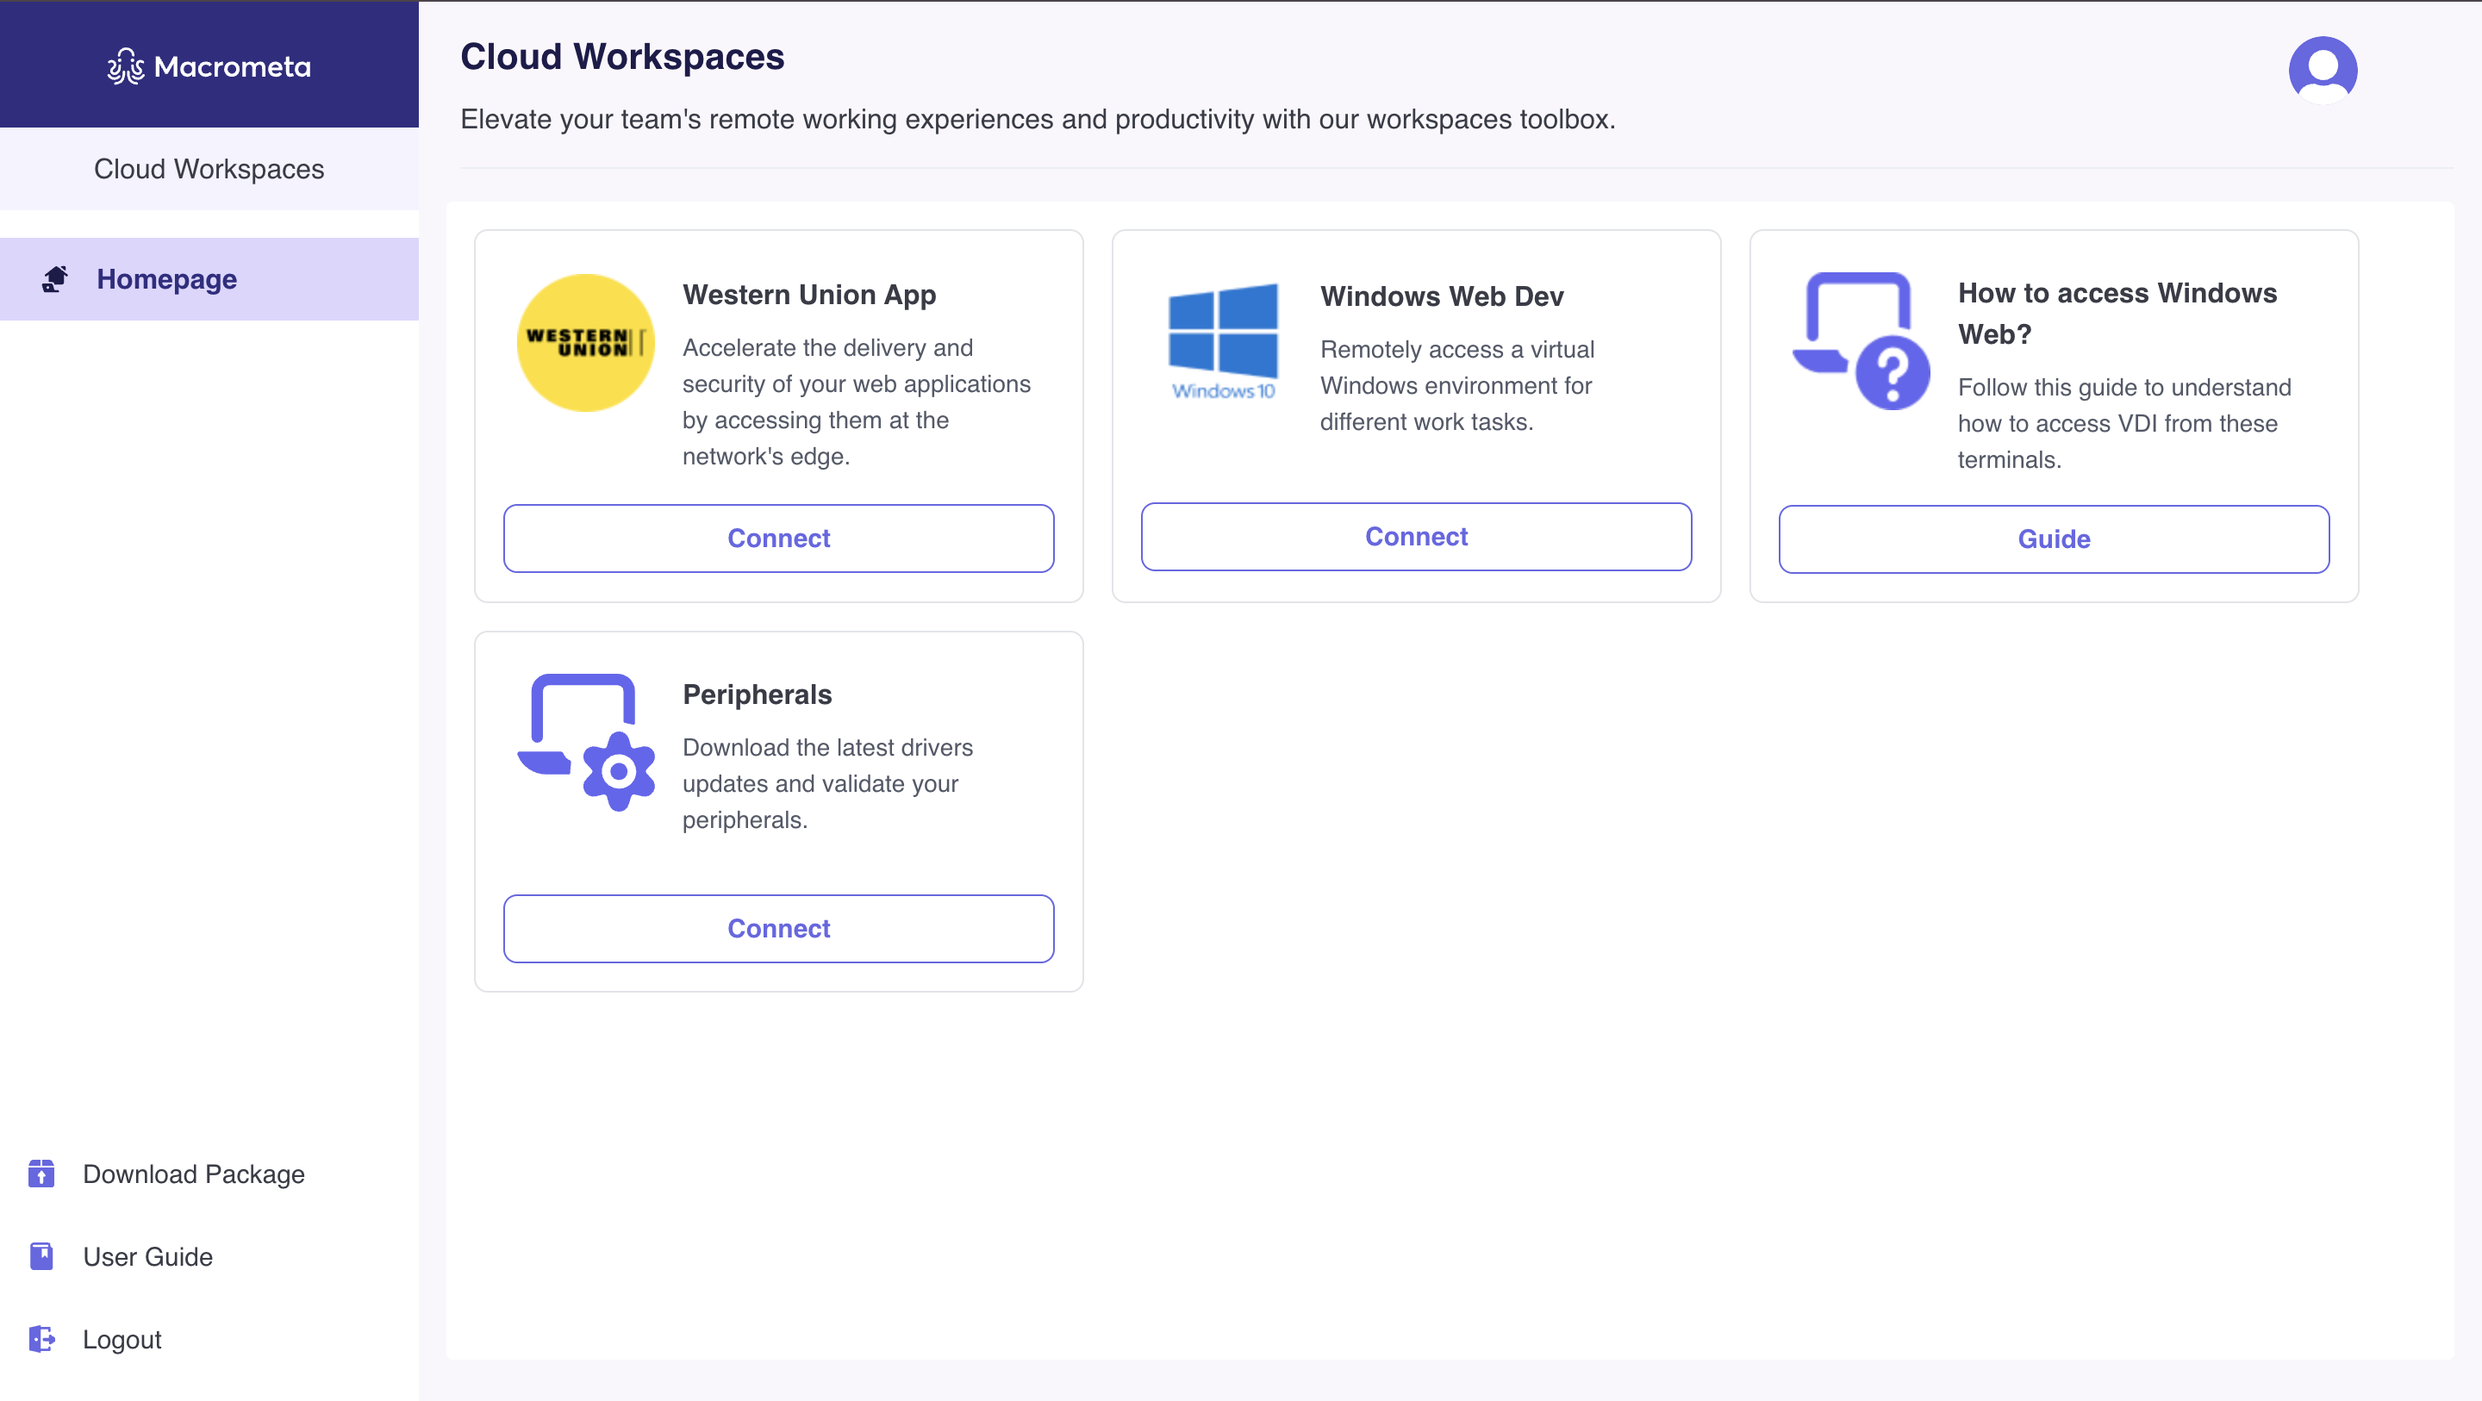
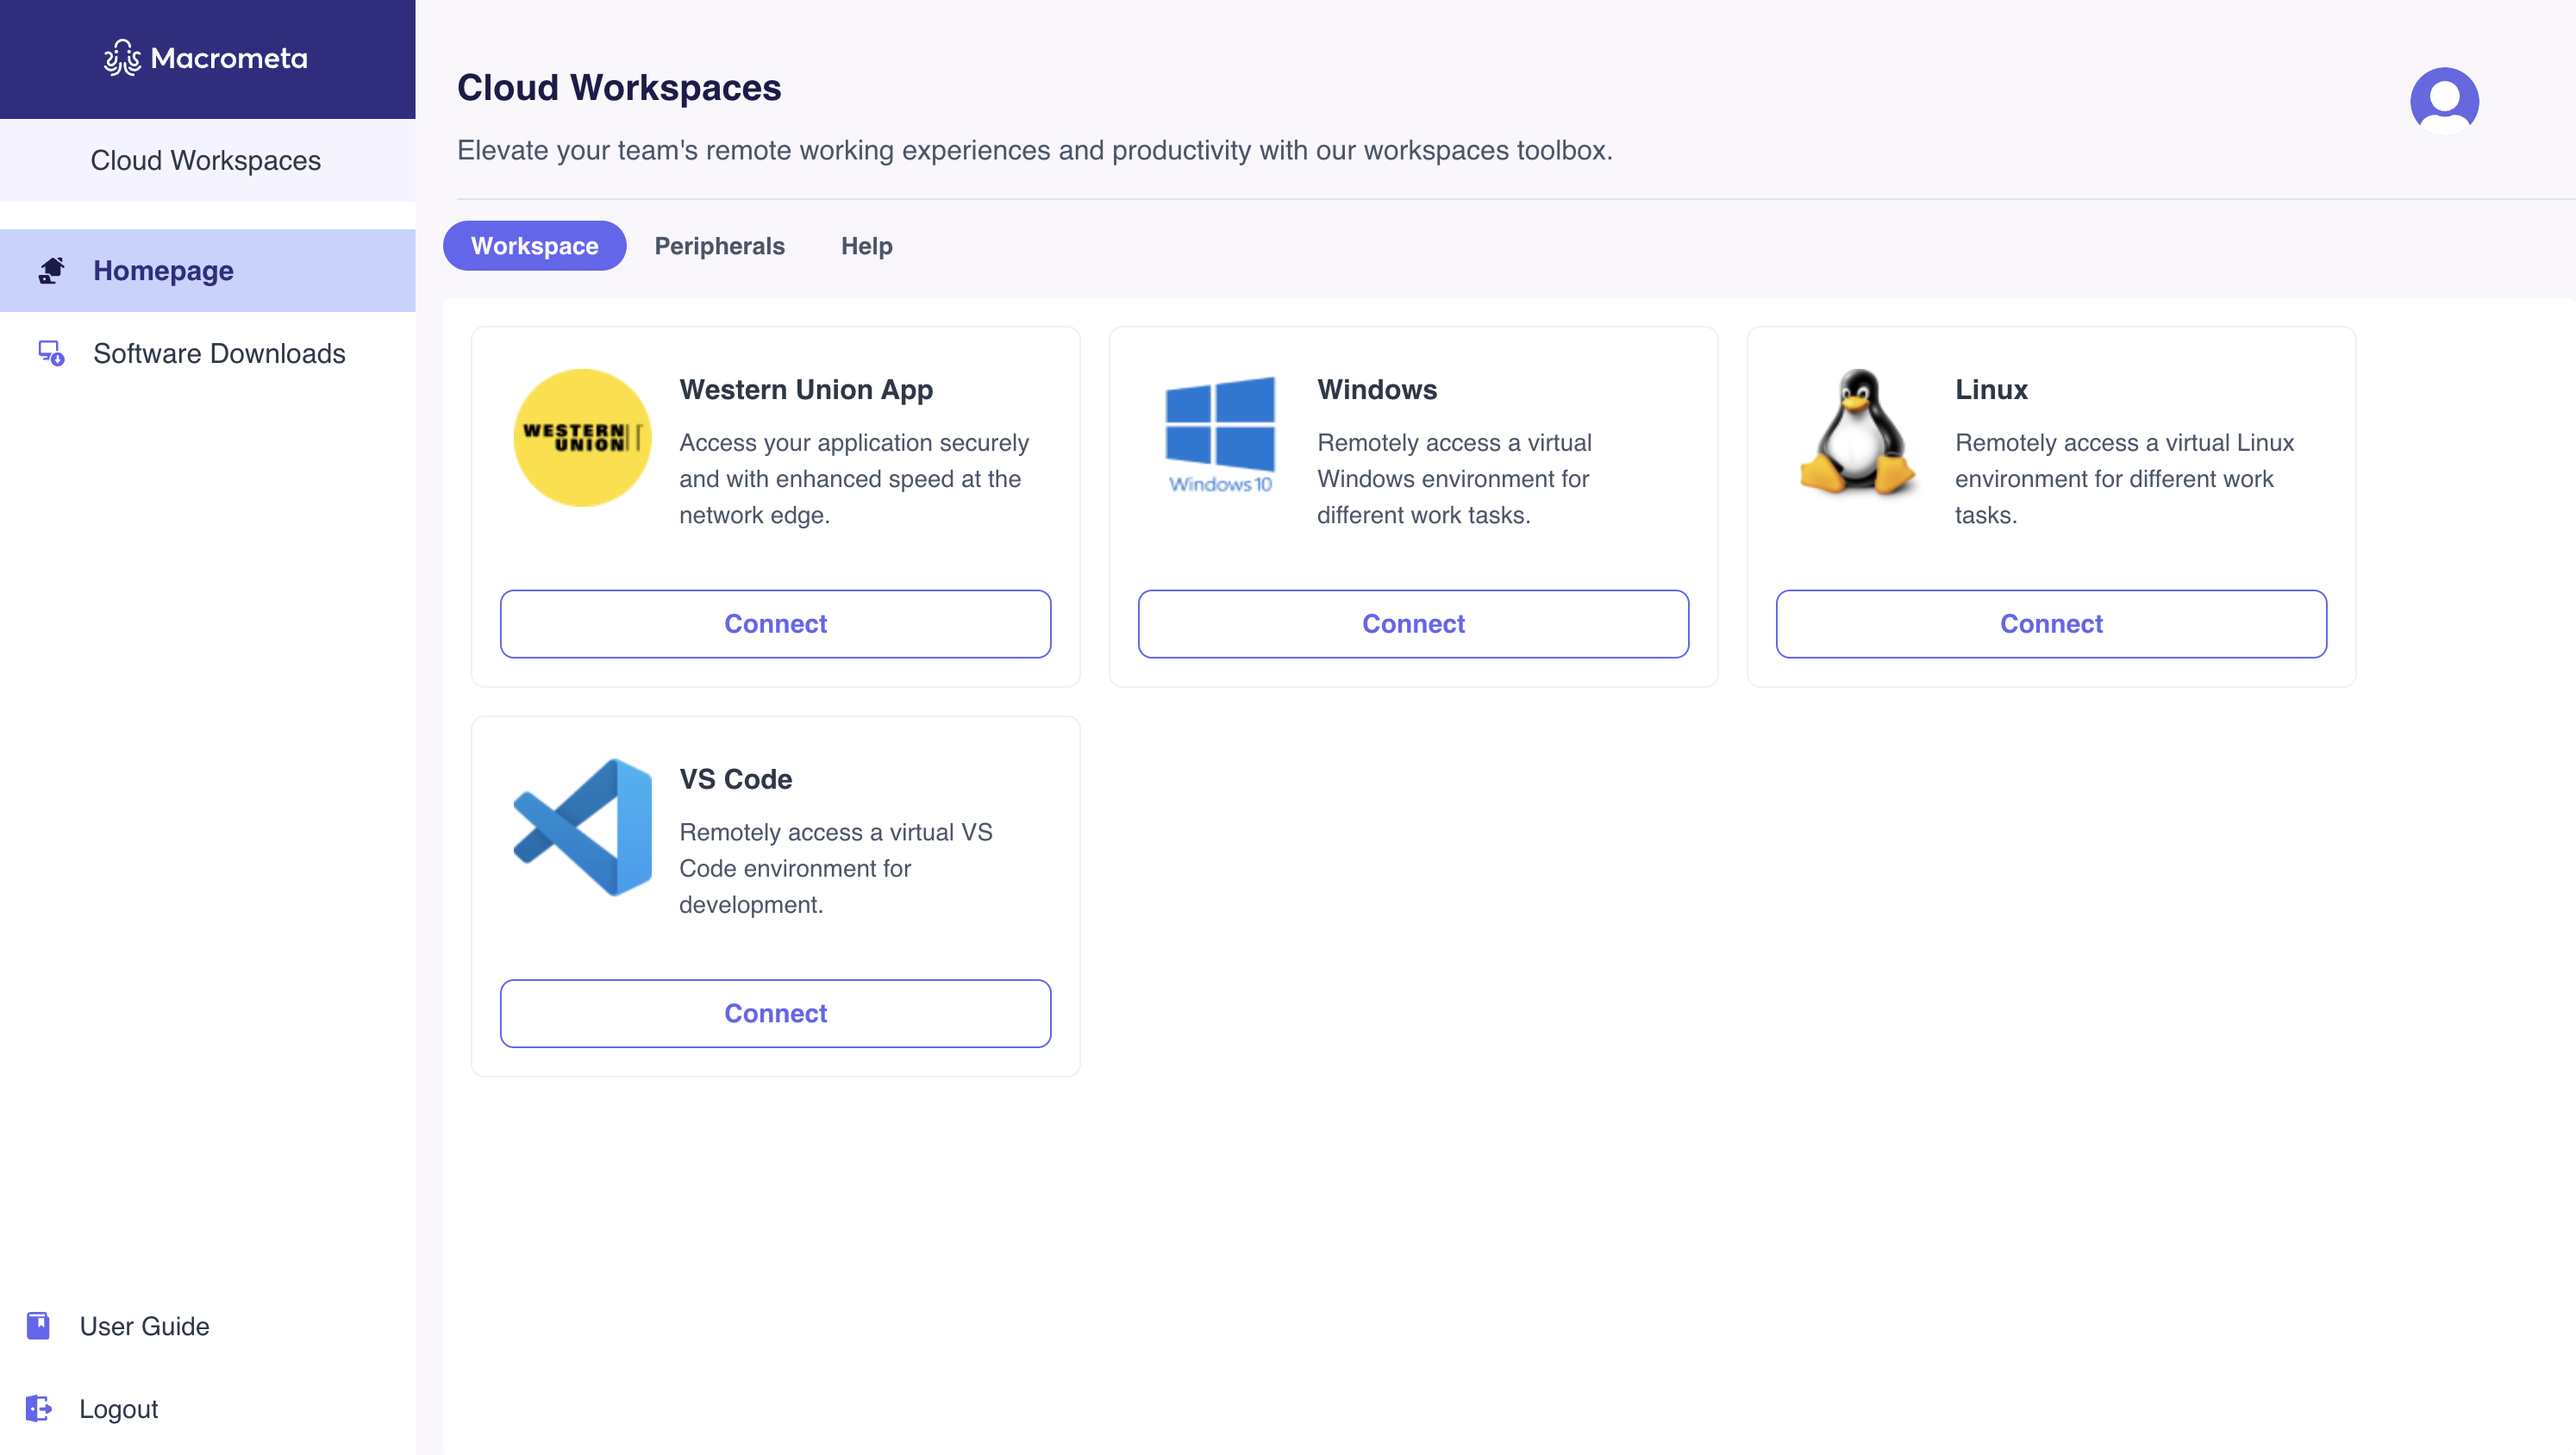
ui-changes

diff --git a/docs/wu-runbook/index.md b/docs/wu-runbook/index.md
@@ -31,36 +31,21 @@ Ignore steps 1 and 2 if you are already logged into Cloud Workspaces.
 2. Login with appropriate credentials to your workspace.
 3. After logging in,
    
-     - For first-time users, the onboarding screen is displayed so you can download the appropriate installer for the service you want to use. Refer to the respective guides for detailed instructions on how to set up the [VDI](./vdi/index.md#download-the-vdi-installer) and [RBA](./rba/index.md#download-the-rba-installer) installers. Click **Go to Home** to proceed to the Workspaces homepage.
+     - For first-time users, the onboarding screen is displayed for you to download the appropriate installer for the service you want to use. Refer to the respective guides for detailed instructions on how to set up the [VDI](./vdi/index.md#download-the-vdi-installer) and [RBA](./rba/index.md#download-the-rba-installer) installers. Click **Go to Home** to proceed to the Workspaces homepage.
    
         ![onboarding-page](/img/runbook-images/onboarding.png)
 
-     - If you're a returning user, you are automatically redirected to the homepage. This homepage is for users subscribed to RBA and VDI.
+     - If you're a returning user, you are automatically redirected to the homepage. The services displayed in your homepage is based on your [user subscription](#workspace-subscriptions). The homepage below is for users subscribed to RBA and VDI.
 
         ![vdi-rba-user](/img/runbook-images/rba-vdi.png)
 
 :::note
-If you missed the installers, click the **Download Package** menu from the sidebar to return to the onboarding screen.
+If you missed the installers, click the **Software Downloads** menu from the sidebar to return to the installer screen.
 :::
 
 The sidebar also provides access to the **User Guide** and **Logout** options. To view your profile, click the **user icon** in the top-right corner of the screen. 
 
-**Next steps:**
-- For WUPOS users, continue with the steps highlighted in [ Using RBA to access the Western Union App](./rba/index.md).
-- VDI users can continue with the [setup process](./vdi/index.md) to start using remote desktops.
-
-## Workspace Management
-
-Cloud Workspaces offers its management dashboard for admin users to configure and edit their domain.
-
-![admin-dashboard](/img/workspaces/management-dashboard.png)
-
-:::note
-Regular users won't find the management dashboard as it is only available for admin users.
-:::
-
-
-## **Workspace Subscriptions**
+## **Workspaces Subscriptions**
 
 Cloud Workspaces has different tools in its toolbox and are available based on subscriptions. Depending on subscriptions, there are three classes of Cloud Workspace users:
 
@@ -75,3 +60,9 @@ Cloud Workspaces has different tools in its toolbox and are available based on s
 - **VDI and RBA users**: These users have access to all the tools in the Workspaces toolbox
 
 ![vdi-rba-user](/img/runbook-images/rba-vdi.png)
+
+**Next steps:**
+- For admins, visit the [Workspace Management guide](workspace-manangement.md) to configure your domain and manage your subscriptions.
+- For WUPOS users, continue with the steps highlighted in [ Using RBA to access the Western Union App](./rba/index.md).
+- VDI users can continue with the [setup process](./vdi/index.md) to start using remote desktops.
+

diff --git a/docs/wu-runbook/vdi/index.md b/docs/wu-runbook/vdi/index.md
@@ -17,7 +17,7 @@ These remote desktops support the following key peripherals:
 
 Before accessing remote desktops using VDI, you're required to do the following:
  
-1. Click **Download VDI Installer** from the [onboarding screen](../index.md#connecting-to-workspaces) to download the installer. Alternatively,  navigate to **Download Package** menu from the homepage sidebar and click **Download VDI Installer**. 
+1. Click **Download VDI Installer** from the [onboarding screen](../index.md#connecting-to-workspaces) to download the installer. Alternatively,  navigate to **Software Downloads** from the homepage sidebar and click **Download VDI Installer**. 
   
 2. Run the file and follow the on-screen prompts to install the VDI components.
 3. Once installed, return to Cloud Workspaces and click **Go to Home** to access the homepage.
@@ -38,18 +38,22 @@ Cloud Workspaces offers you access to two different types of Windows VDI:
 The Windows VDI is exclusively available on Windows OS/terminals in this release.
 :::
 
-To start using the remote Windows desktop, 
+To **start using the remote Windows desktop**, 
 
-1. Navigate to the **Workspaces** homepage and click the **Connect** button for **Windows Web Dev**. A pop-up modal appears with some authentication instructions for use later in Step 4. 
+1. Navigate to the **Workspaces** homepage and click the **Connect** button for **Windows Web Dev**. 
+
+   ![vdi-user](/img/runbook-images/vdi.png)
+
+2. A pop-up modal appears with some authentication instructions for use later in Step 5. 
 
     ![vdi-login](/img/runbook-images/vdi-login.png)
 
-2. Click **OK**. Select **Open Windows PowerShell**  if you are prompted to access it.
-3. It launches a **Remote Desktop Connection** window for you to connect to your remote computer. Click **Connect** to initiate the connection to the remote desktop.
+3. Click **OK**. Select **Open Windows PowerShell**  if you are prompted to access it.
+4. It launches a **Remote Desktop Connection** window for you to connect to your remote computer. Click **Connect** to initiate the connection to the remote desktop.
 
     ![rdp-powershell](/img/runbook-images/vdi-rdp.png)
 
-4. Enter your Workspaces password in the credentials window.
+5. Enter your Workspaces password in the credentials window.
 
     ![rdp-powershell](/img/runbook-images/windows-credentials.png)
 

diff --git a/docs/wu-runbook/rba/index.md b/docs/wu-runbook/rba/index.md
@@ -1,5 +1,5 @@
 ---
-sidebar_position: 1
+sidebar_position: 2
 title:  Using RBA to access the Western Union App
 ---
 
@@ -7,7 +7,7 @@ WUPOS Agents can access the Western Union app using Remote Browser Acceleration 
 
 ### **Prerequisites**
 
-- **RBA Installer Token**: The RBA Installer Token is required when [setting up the installer](#download-the-rba-installer). To access this token, return to the [onboarding screen](../index.md#connecting-to-workspaces) or navigate to **Download Package** menu from the homepage sidebar. Click on **RBA Installer Token** and copy the displayed token. 
+- **RBA Installer Token**: The RBA Installer Token is required when [setting up the installer](#download-the-rba-installer). To access this token, return to the [onboarding screen](../index.md#connecting-to-workspaces) or navigate to **Software Downloads** from the homepage sidebar. Click on **RBA Installer Token** and copy the displayed token. 
 
 ### **Download the RBA Installer**
 
@@ -17,7 +17,7 @@ To use the Western Union App with RBA, the following installation steps is requi
 The RBA installer also installs a Chrome browser on your device. You must access RBA using this browser to ensure RBA functions properly. For devices with the supported browser already installed, the RBA installer skips this browser installation.
 :::
 
-1. Click **Download RBA Installer** from the [onboarding screen](../index.md#connecting-to-workspaces) to download the installer. Alternatively,  navigate to **Download Package** menu from the homepage sidebar and click **Download RBA Installer**. 
+1. Click **Download RBA Installer** from the [onboarding screen](../index.md#connecting-to-workspaces) to download the installer. Alternatively,  navigate to **Software Downloads** from the homepage sidebar and click **Download RBA Installer**. 
   
 2. Run the file and follow the on-screen prompts until you reach the login screen. Use your Workspaces email address and the [RBA Installer Token](#prerequisites) you copied earlier when prompted for your login details. Click **Next**.
 

diff --git a/docs/wu-runbook/rba/validating-peripherals.md b/docs/wu-runbook/rba/validating-peripherals.md
@@ -1,5 +1,5 @@
 ---
-sidebar_position: 2
+sidebar_position: 3
 title:  Validating peripheral devices for RBA
 ---
 RBA supports the following peripheral devices when accessing web apps from the remote browser:
@@ -14,7 +14,7 @@ WUPOS agents are required to configure the supported peripheral devices to ensur
 
 To verify the functionality of your connected devices, use the **Peripheral Validator**: 
    
-- Navigate to the homepage and click **Connect** for **Peripherals** to start the validation process for each device. 
+- Navigate to the **Peripherals** in the homepage and click **Connect** for the **Peripherals**  menu to start the validation process for each device. 
    
   ![workspaces-homepage](/img/runbook-images/workspaces-homepage.png)
 

diff --git a/docs/wu-runbook/workspace-manangement.md b/docs/wu-runbook/workspace-manangement.md
@@ -1,0 +1,14 @@
+---
+sidebar_position: 1
+title: Workspace Management Admin Guide
+sidebar_label: Workspace Management
+---
+
+
+Cloud Workspaces offers its management dashboard for admin users to configure and edit their domain.
+
+![admin-dashboard](/img/workspaces/management-dashboard.png)
+
+:::note
+Regular users won't find the management dashboard as it is only available for admin users.
+:::

diff --git a/docs/wu-runbook/rba/rba-control-bar.md b/docs/wu-runbook/rba/rba-control-bar.md
@@ -1,6 +1,6 @@
 ---
 pagination_next: null
-sidebar_position: 3
+sidebar_position: 4
 title:  Using the RBA control bar
 ---
 
